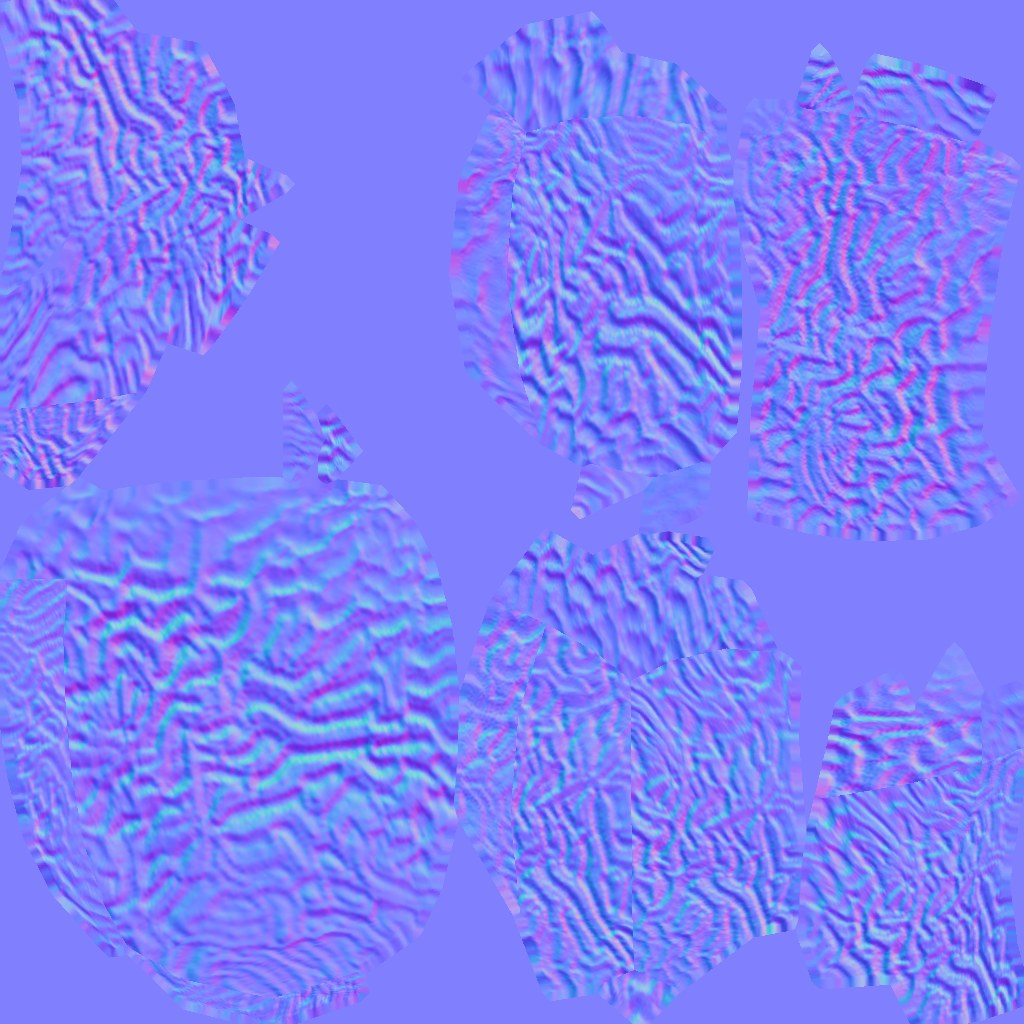
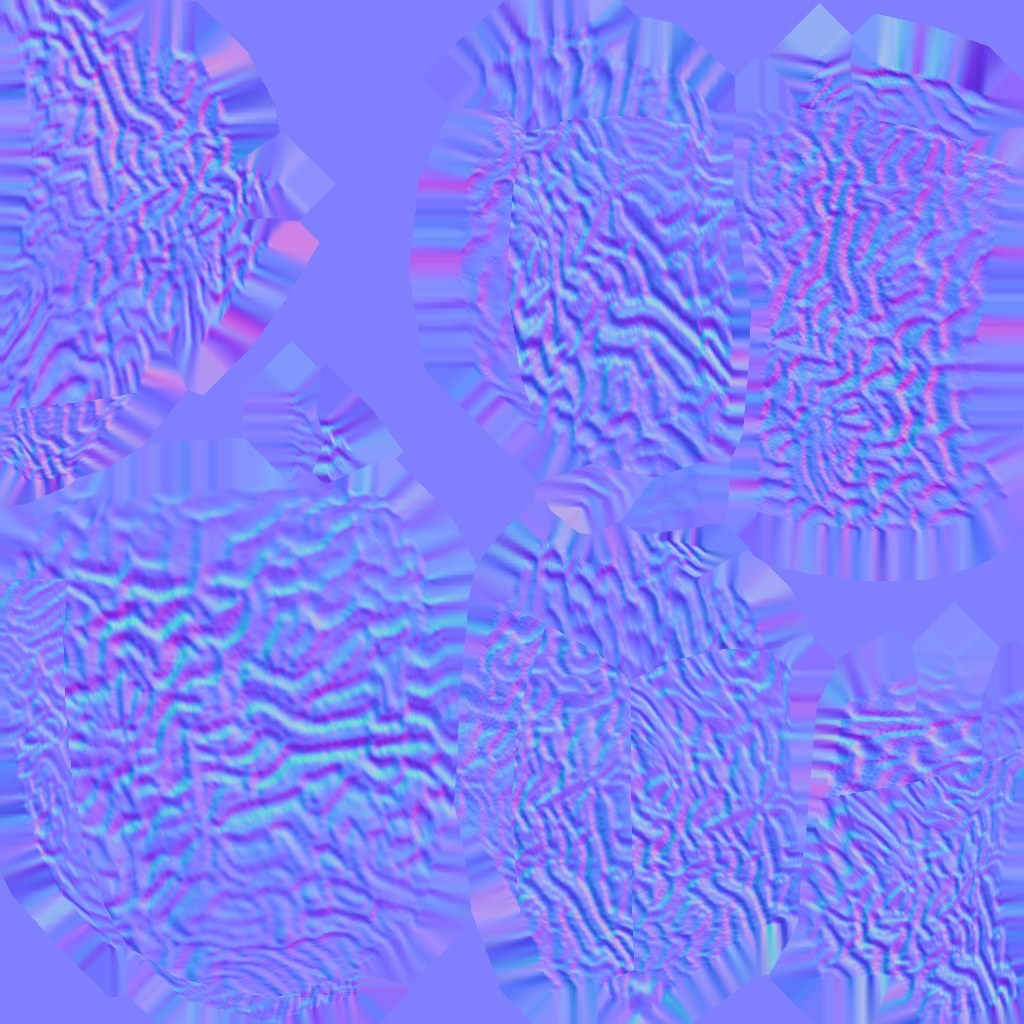
Brain coral kit: no black facets on the reduced meshes (v0.43.0-dev_4)
Decimating _hi to _lo and _far collapsed edges across UV island seams, so a
triangle on brain3 spanned the unbaked black gap between islands. The kit
script now keeps seam vertices out of the reduction, bakes with a 48 px
extend margin and counts black triangles per level (0 on all twelve).
Jeremy's source mesh was never at fault.

diff --git a/src/data/landscapes.js b/src/data/landscapes.js
@@ -129,7 +129,7 @@ const STAGHORN_KIT = {
 
 // Jeremy's brain corals (Platygyra daedalea, `_blender models/platygyra daedalea.glb`, 2026-10-30),
 // baked by scripts/build-brain-coral-kit.py: four photo-textured boulders about 1.4-1.6 m across,
-// each with _hi (his own 256-768 triangles), _lo (114-346) and _far (46-138) meshes sharing its
+// each with _hi (his own 256-768 triangles), _lo (118-346) and _far (116-216) meshes sharing its
 // 1024 px brainN-color/-normal.jpg. In metres, up +Y, origin at his object origin: the ground
 // line, with 0.22-0.52 m of rounded underside below it to be buried. 0: blue and brown, 0.70 m
 // above ground; 1: orange, 0.72 m; 2: brown, 0.64 m; 3: pale yellow-green, 0.71 m.

diff --git a/src/version.js b/src/version.js
@@ -1,3 +1,3 @@
-export const APP_VERSION = 'v0.43.0-dev_3'
+export const APP_VERSION = 'v0.43.0-dev_4'
 export const APP_VERSION_LABEL = `world oceanarium ${APP_VERSION}`
 export const APP_VERSION_SHORT_LABEL = APP_VERSION

diff --git a/scripts/build-brain-coral-kit.py b/scripts/build-brain-coral-kit.py
@@ -52,6 +52,41 @@ def weld(obj):
     bm.to_mesh(obj.data)
     bm.free()
 
+# Collapsing an edge across a UV island's seam leaves a triangle whose UVs span the gap between
+# islands, which the bake leaves black (a black facet on brain3_lo and _far, 2026-11-01). The
+# close-up mesh keeps its seam vertices in this group, which the decimation leaves alone.
+SEAM_GROUP = 'uv_seams'
+
+def mark_seams(obj):
+    select_only([obj], obj)
+    bpy.ops.object.mode_set(mode='EDIT')
+    bpy.ops.mesh.select_all(action='SELECT')
+    bpy.ops.uv.seams_from_islands()
+    bpy.ops.object.mode_set(mode='OBJECT')
+    seam_verts = {v for e in obj.data.edges if e.use_seam for v in e.vertices}
+    group = obj.vertex_groups.new(name=SEAM_GROUP)
+    group.add(list(seam_verts), 1.0, 'REPLACE')
+    return len(seam_verts)
+
+# Triangles of `obj` whose UVs land on near-black texels of the baked colour map (`px`, RGBA
+# floats, `w` by `h`; sampled at each triangle's centre and halfway to each corner): the check for
+# the seam fault above.
+def black_triangles(obj, px, w, h):
+    uv = obj.data.uv_layers.active.data
+    def lum(u, v):
+        x = min(w - 1, max(0, int(u * w))); y = min(h - 1, max(0, int(v * h)))
+        i = (y * w + x) * 4
+        return (px[i] + px[i + 1] + px[i + 2]) / 3
+    count = 0
+    obj.data.calc_loop_triangles()
+    for tri in obj.data.loop_triangles:
+        corners = [uv[l].uv for l in tri.loops]
+        cu = sum(c[0] for c in corners) / 3; cv = sum(c[1] for c in corners) / 3
+        samples = [lum(cu, cv)] + [lum((cu + c[0]) / 2, (cv + c[1]) / 2) for c in corners]
+        if sum(samples) / len(samples) < 0.03:
+            count += 1
+    return count
+
 def decimated(obj, target, name):
     copy = obj.copy()
     copy.data = obj.data.copy()
@@ -62,6 +97,10 @@ def decimated(obj, target, name):
     if target < base:
         mod = copy.modifiers.new('decimate', 'DECIMATE')
         mod.ratio = target / base
+        if SEAM_GROUP in copy.vertex_groups:
+            mod.vertex_group = SEAM_GROUP
+            mod.invert_vertex_group = True
+            mod.vertex_group_factor = 10
         depsgraph = bpy.context.evaluated_depsgraph_get()
         mesh = bpy.data.meshes.new_from_object(copy.evaluated_get(depsgraph))
         copy.modifiers.clear()
@@ -78,7 +117,10 @@ def select_only(objs, active):
 scene.render.engine = 'CYCLES'
 scene.cycles.device = 'CPU'
 scene.cycles.samples = 4
-scene.render.bake.margin = 8
+# Wide enough to fill the gaps between the islands, so a triangle that still spans one shows the
+# neighbouring colour, never black.
+scene.render.bake.margin = 48
+scene.render.bake.margin_type = 'EXTEND'
 scene.render.bake.use_selected_to_active = True
 scene.render.bake.cage_extrusion = 0.015
 scene.render.bake.max_ray_distance = 0.04
@@ -111,6 +153,7 @@ for index, src_obj in enumerate(sources):
     bpy.ops.mesh.select_all(action='SELECT')
     bpy.ops.uv.smart_project(angle_limit=1.15, island_margin=0.006, area_weight=1.0, scale_to_bounds=True)
     bpy.ops.object.mode_set(mode='OBJECT')
+    print('SEAMS', hi.name, mark_seams(hi), 'seam vertices')
 
     # One bake target material holding the image being written.
     mat = bpy.data.materials.new(f'brain{index}_bake')
@@ -131,6 +174,8 @@ for index, src_obj in enumerate(sources):
             bpy.ops.object.bake(type='DIFFUSE', pass_filter={'COLOR'}, use_selected_to_active=True)
         else:
             bpy.ops.object.bake(type='NORMAL', normal_space='TANGENT', use_selected_to_active=True)
+        if kind == 'color':
+            color_px = img.pixels[:]
         path = os.path.join(out_dir, f'brain{index}-{kind}.jpg')
         img.file_format = 'JPEG'
         img.save(filepath=path, quality=88)
@@ -140,7 +185,10 @@ for index, src_obj in enumerate(sources):
     far = decimated(hi, p['far'], f'brain{index}_far')
     for o in (hi, lo, far):
         o.data.materials.clear()
-        print('LOD', o.name, tri_count(o.data), 'dims', tuple(round(d, 3) for d in o.dimensions))
+        print('LOD', o.name, tri_count(o.data), 'dims', tuple(round(d, 3) for d in o.dimensions),
+              'black triangles', black_triangles(o, color_px, p['tex'], p['tex']))
+        while o.vertex_groups:
+            o.vertex_groups.remove(o.vertex_groups[0])
         exported.append(o)
 
 for o in list(scene.objects):

diff --git a/ROADMAP.md b/ROADMAP.md
@@ -15,7 +15,7 @@ Status labels:
 
 ### Brain Coral
 
-Status: `Current in development` — `v0.43.0-dev_3`, branch `species/platygyra-daedalea`,
+Status: `Current in development` — `v0.43.0-dev_4`, branch `species/platygyra-daedalea`,
 [PR #177](https://github.com/jeremyyeh11/world-oceanarium/pull/177). Jeremy's model is in
 (2026-10-30): the brain corals are on The Reefs and in the Atlas.
 
@@ -45,8 +45,11 @@ Subtasks:
   colony's source is unknown. Credited in `IMAGE_CREDITS`; the watermarked corners lie outside
   the UVs and never reach the baked maps. Jeremy (2026-10-30): keep them, credited; "if anyone
   wants me to take down, i will".
-- [ ] The pale colony (brain3) has a deep crease on one side that reads as a dark notch up close.
-  It is in the source mesh, not the bake. Jeremy to fix in Blender or leave. `Blocked / waiting review`
+- [x] Black facet on the pale colony (`dev_4`): not Jeremy's mesh (closed, no sharp or inward
+  faces) but the kit script. Reducing `_hi` to `_lo` and `_far` collapsed edges across UV island
+  seams, leaving a triangle whose UVs spanned the unbaked gap between islands. The script now
+  keeps seam vertices out of the reduction, fills the gaps with the neighbouring colour (48 px
+  margin) and counts black triangles per level: 0 on all twelve meshes.
 - [x] Fish reach the low colonies (`dev_3`): on a trip to a brain coral the reef fish's floor
   drops from y −19 to the sand (−24); every other trip keeps −19. Jeremy (2026-10-31): "maybe we
   allow fish swim lower?". Measured in one session, dip off/on in alternating 2.5 min blocks

diff --git a/CHANGELOG.md b/CHANGELOG.md
@@ -10,9 +10,10 @@ Versioning convention notes:
 
 ## v0.43.0 — Brain Coral (in development)
 
-Status: `v0.43.0-dev_3`, branch `species/platygyra-daedalea`,
+Status: `v0.43.0-dev_4`, branch `species/platygyra-daedalea`,
 [PR #177](https://github.com/jeremyyeh11/world-oceanarium/pull/177). `dev_1` built everything but
-the model; `dev_2` adds Jeremy's four colonies; `dev_3` lets reef fish down to the low ones.
+the model; `dev_2` adds Jeremy's four colonies; `dev_3` lets reef fish down to the low ones;
+`dev_4` fixes a black facet on the pale colony.
 
 ### Landscape and corals
 
@@ -26,6 +27,8 @@ the model; `dev_2` adds Jeremy's four colonies; `dev_3` lets reef fish down to t
 - Kit and Atlas scripts (`scripts/build-brain-coral-kit.py`, `scripts/build-brain-coral-atlas.py`):
   bake his colonies to three detail levels with colour and normal maps, origin at his object
   origin; run end to end on generated domes.
+- No black facet on the pale colony seen from mid-distance (`dev_4`): the kit's reduced meshes keep
+  to the baked texture.
 
 ### Behaviour and motion
 
